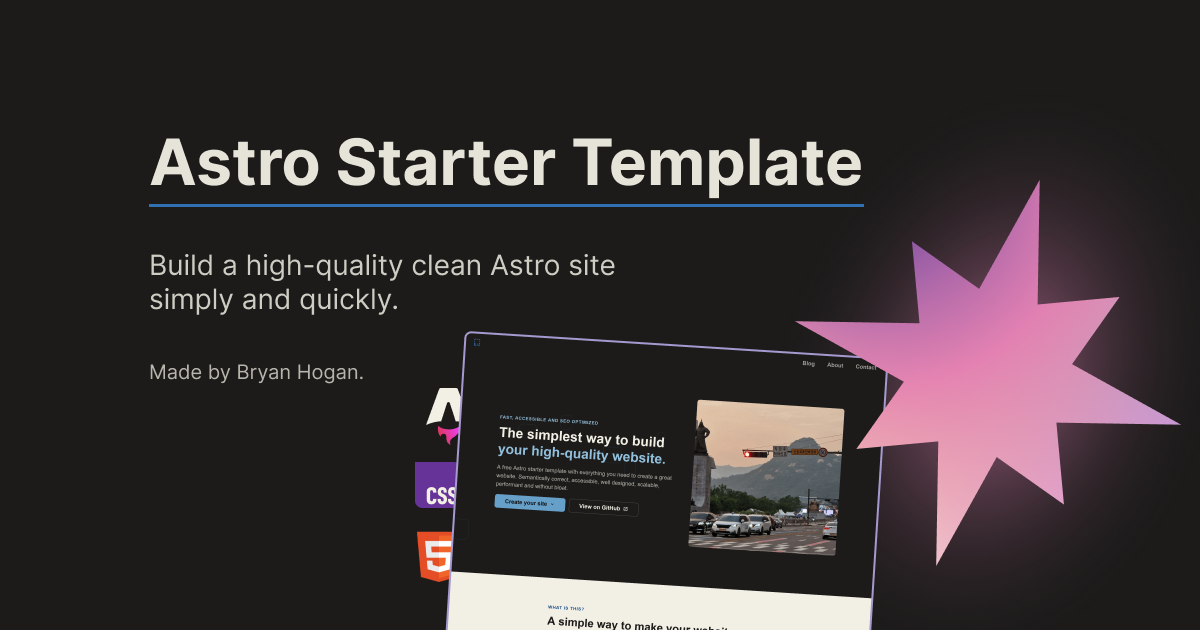
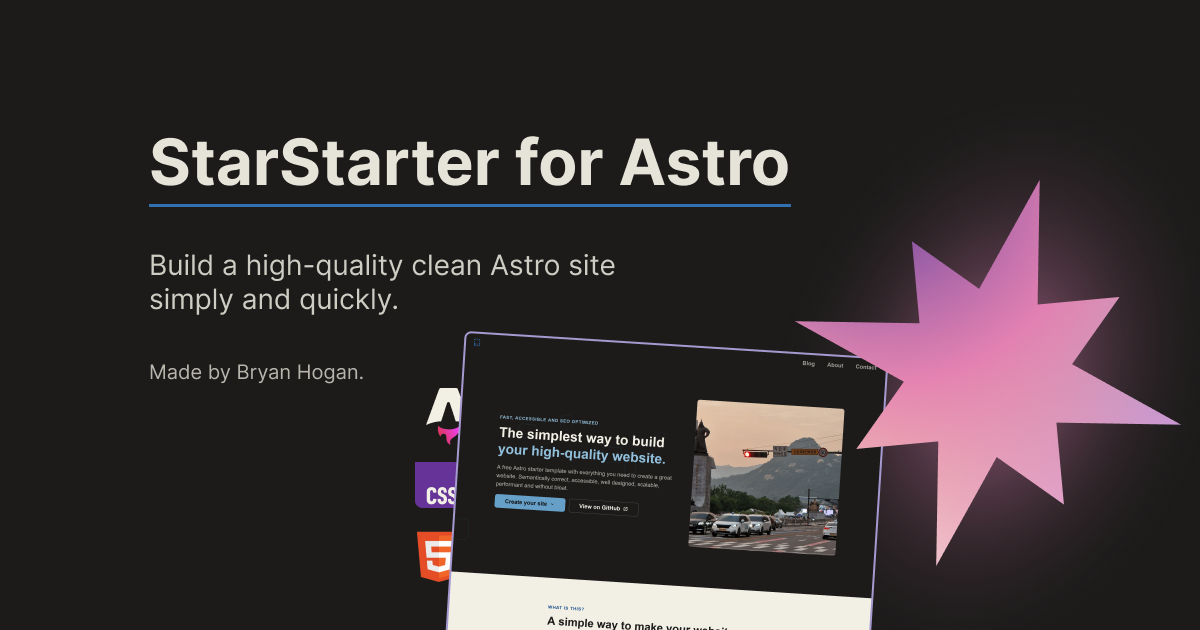
New name: StarStarter

Changed region(s): [[0.1233, 0.2111, 0.74, 0.3317]]

diff --git a/src/config.ts b/src/config.ts
@@ -4,10 +4,10 @@ export const SITE = {
     url: "https://starter.bryanhogan.com",
 
     /** Brand/site name — og:site_name, WebSite JSON-LD, footer. */
-    name: "Astro Starter Template",
+    name: "StarStarter",
 
     /** Default site description — used in the RSS feed and site-wide JSON-LD. */
-    description: "A lightweight, accessible Astro starter template with a simple color system, SEO-ready head, and sensible defaults.",
+    description: "StarStarter is a lightweight, accessible Astro starter template with a simple color system, SEO-ready head, and sensible defaults.",
 
     /** Person behind the site — meta author + copyright, footer, JSON-LD author/publisher. */
     author: "Bryan Hogan",
@@ -23,7 +23,7 @@ export const SITE = {
 
     /** Default social share image (place the file in public/) and its alt text. */
     ogImage: "/og-default.png",
-    ogImageAlt: "Astro Starter Template by Bryan Hogan",
+    ogImageAlt: "StarStarter for Astro by Bryan Hogan",
 
     /** Header navigation. Add, remove, or reorder links without editing the header component. */
     header: {

diff --git a/packages/create-web-starter/bin/create.js b/packages/create-web-starter/bin/create.js
@@ -68,7 +68,7 @@ async function main() {
     const useDefaults = parsedArguments.values.yes ?? false;
     const providedDirectory = parsedArguments.positionals[0];
 
-    p.intro("Create a Bryan Web Starter site");
+    p.intro("Create a site with StarStarter");
 
     const projectDirectory = useDefaults
         ? providedDirectory ?? "my-website"
@@ -95,7 +95,7 @@ async function main() {
     const answers = useDefaults
         ? {
               siteName: defaultSiteName,
-              description: "A website built with Bryan Web Starter.",
+              description: "A website built with StarStarter.",
               author: "Your Name",
               siteUrl: "https://example.com",
               installDependencies: !parsedArguments.values["no-install"],

diff --git a/packages/create-web-starter/scripts/build-template.js b/packages/create-web-starter/scripts/build-template.js
@@ -9,13 +9,14 @@ const templateDirectory = join(packageDirectory, "template");
 const baseDirectory = join(templateDirectory, "base");
 const sourceDirectory = join(packageDirectory, "source");
 
-// The docs explain the template itself, so generated sites only get the blog.
+// Keep the StarStarter demo's docs and showcase out of generated sites.
 const excludedPaths = new Set(
     [
         ["public", "images", "setup-video-thumbnail.png"],
         ["src", "content", "docs"],
         ["src", "pages", "docs"],
         ["src", "pages", "docs.mdx"],
+        ["src", "pages", "site-showcase.mdx"],
     ].map((segments) => join(repositoryRoot, ...segments)),
 );
 

diff --git a/README.md b/README.md
@@ -1,6 +1,8 @@
-# Astro Starter Template by Bryan Hogan
+# StarStarter for Astro by Bryan Hogan
 
-A free Astro starter template for good, fast and accessible websites you fully control.
+StarStarter is a free Astro starter template for good, fast and accessible websites you fully control.
+
+See the [StarStarter website](https://starter.bryanhogan.com/) for a live demo and the full docs.
 
 Write your content simply in Markdown or MDX, change the colors, text and other styling, then publish the finished site anywhere. You own the code and can change every part of it.
 
@@ -113,7 +115,7 @@ If port 4321 is already in use, Astro selects another port; use the exact URL pr
 
 - Edit or replace the example pages in `src/pages/`.
 - Add blog posts to `src/content/blog/`. The welcome post is an example you can edit or delete.
-- Edit or remove the template guides in `src/content/docs/`. They are served at `/docs`, ordered by the `order` frontmatter field; sites created with the npm package do not include them.
+- Edit or remove the template guides in `src/content/docs/`. They are served at `/docs`, ordered by the `order` frontmatter field. Sites created with the npm package do not include them or the site showcase page.
 - Add processed images to `src/assets/images/` or static files to `public/`.
 - Update the header and footer navigation links in `src/config.ts` when your page structure changes.
 

diff --git a/packages/create-web-starter/README.md b/packages/create-web-starter/README.md
@@ -1,6 +1,6 @@
-# @bryanhogan/create-web-starter
+# StarStarter for Astro
 
-Create a configured Astro website using Bryan Web Starter.
+The official generator for [StarStarter](https://starter.bryanhogan.com/), a free Astro starter template for fast, accessible websites you fully control. Create a configured StarStarter site with one command:
 
 ```bash
 npm create @bryanhogan/web-starter@latest
@@ -28,7 +28,15 @@ Available flags:
 
 The generated website includes Astro, MDX pages, a blog with optional update
 dates and production-safe drafts, RSS, sitemap support, SEO metadata,
-accessible components, and a token-based CSS design system.
+accessible components, and a token-based CSS design system. The template
+guides and site showcase from the StarStarter website are left out, so you
+start with a clean site of your own.
+
+## Documentation
+
+- [StarStarter website](https://starter.bryanhogan.com/)
+- [Docs](https://starter.bryanhogan.com/docs)
+- [GitHub repository](https://github.com/BryanHogan/astro-starter-template)
 
 ## Requirements
 

diff --git a/packages/create-web-starter/source/replacements/README.md b/packages/create-web-starter/source/replacements/README.md
@@ -2,7 +2,7 @@
 
 __SITE_DESCRIPTION_MARKDOWN__
 
-This Astro website was generated with [Bryan Web Starter](https://starter.bryanhogan.com/).
+This Astro website was generated with [StarStarter](https://starter.bryanhogan.com/).
 
 ## First run
 
@@ -34,7 +34,7 @@ Blog posts require `title`, `description`, and `pubDate` in their frontmatter. Y
 
 ## Resources
 
-- [Bryan Web Starter website](https://starter.bryanhogan.com/)
+- [StarStarter website](https://starter.bryanhogan.com/)
 - [GitHub repository](https://github.com/BryanHogan/astro-starter-template)
 - [How to configure `src/config.ts`](https://starter.bryanhogan.com/docs/how-to-configure-config)
 - [How to create Astro and MDX pages](https://starter.bryanhogan.com/docs/how-to-create-a-new-page)

diff --git a/AGENTS.md b/AGENTS.md
@@ -1,6 +1,6 @@
-# AGENTS.md for Astro Starter Template
+# AGENTS.md
 
-This is Bryan Hogan's Astro starter template, a lightweight, accessible foundation for performant websites with a token-based design system, SEO-ready head, and sensible defaults. It is a reusable template.
+This is Bryan Hogan's StarStarter, an Astro starter template: a lightweight, accessible foundation for performant websites with a token-based design system, SEO-ready head, and sensible defaults. It is a reusable template.
 
 ## Project Structure
 

diff --git a/src/content/author.md b/src/content/author.md
@@ -1,3 +1,3 @@
 ## About the author
 
-Bryan Hogan is the creator of this Astro starter template, built to help make the web a better place. [Learn more about Bryan](/about).
+Bryan Hogan is the creator of StarStarter, an Astro starter template built to help make the web a better place. [Learn more about Bryan](/about).
